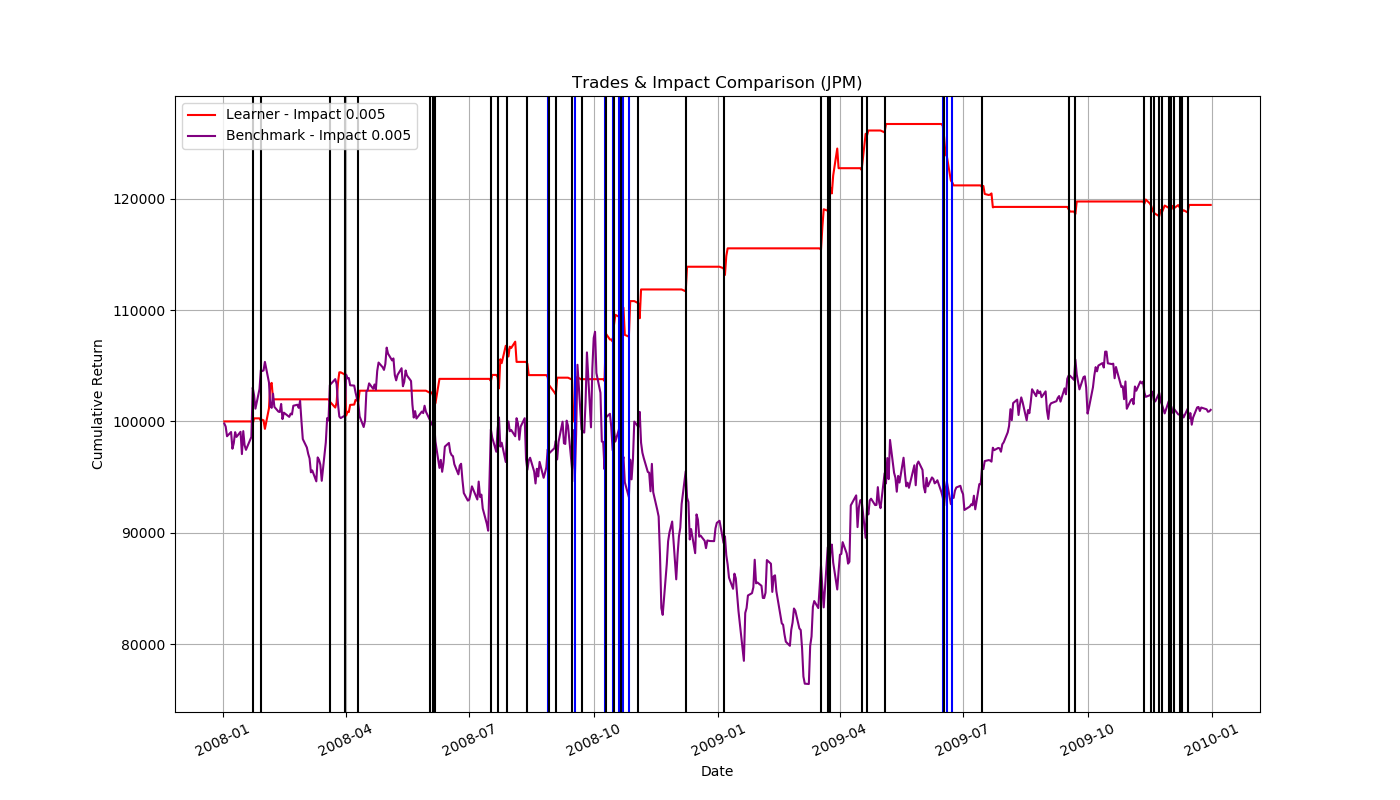
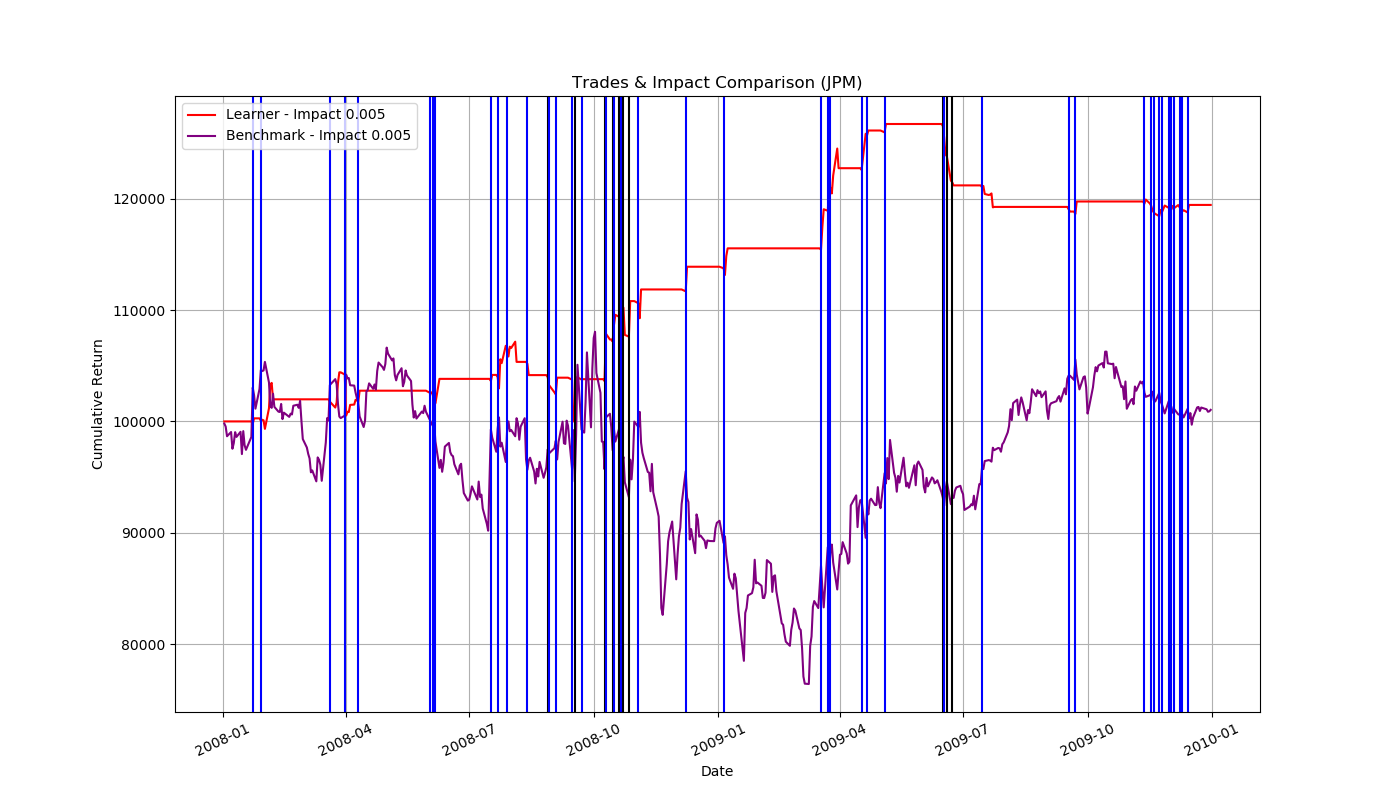
bugfix

diff --git a/strategy_evaluation/experiment2.py b/strategy_evaluation/experiment2.py
@@ -112,9 +112,9 @@ def gen_plot_trades(sl_val, b_val, short, long, impact, symbol):
     plt.plot(sl_val, label='Learner - Impact {}'.format(impact), color='red')
     plt.plot(b_val, label='Benchmark - Impact {}'.format(impact), color='purple')
     for i in long:
-        plt.axvline(i, color="blue")
+        plt.axvline(i, color='black')
     for i in short:
-        plt.axvline(i, color="black")
+        plt.axvline(i, color='blue')
     plt.legend()
     plt.savefig('./images/experiment2_trades{}.png'.format(impact))
     plt.clf()

diff --git a/strategy_evaluation/ManualStrategy.py b/strategy_evaluation/ManualStrategy.py
@@ -113,9 +113,9 @@ def gen_plot(manual_val, benchmark_val, short_entries, long_entries, sample, sym
     plt.plot(manual_val, label='Manual Strategy', color='red')
     plt.plot(benchmark_val, label='Benchmark', color='purple')
     for i in long_entries:
-        plt.axvline(i, color="blue")
+        plt.axvline(i, color='black')
     for i in short_entries:
-        plt.axvline(i, color="black")
+        plt.axvline(i, color='blue')
     plt.legend()
     plt.savefig("./images/manual_{}.png".format(sample))
     plt.clf()

diff --git a/strategy_evaluation/testproject.py b/strategy_evaluation/testproject.py
@@ -10,7 +10,7 @@ def author():
 def report():
     random.seed(42)
 
-    stat = False
+    stat = True
 
     ManualStrategy.report(symbol='JPM',
                 sd_in=dt.datetime(2008, 1, 1),
